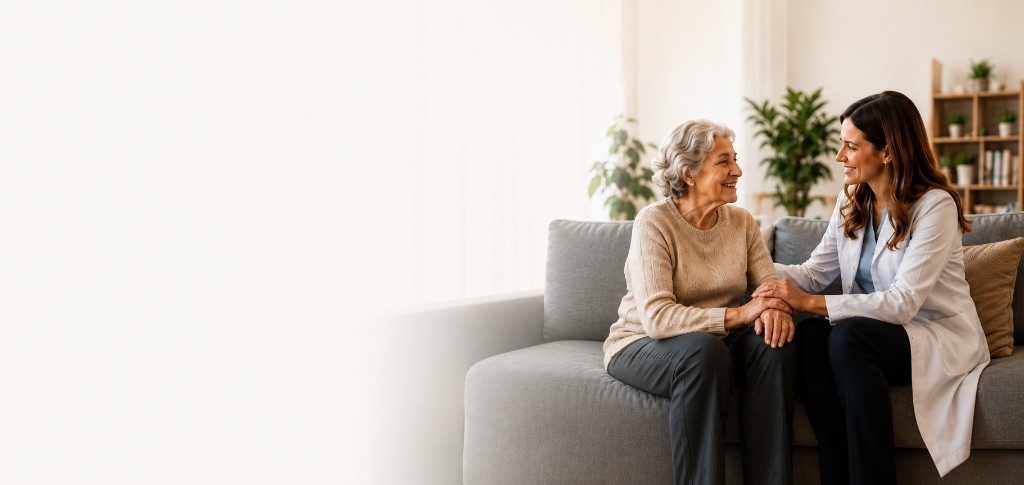
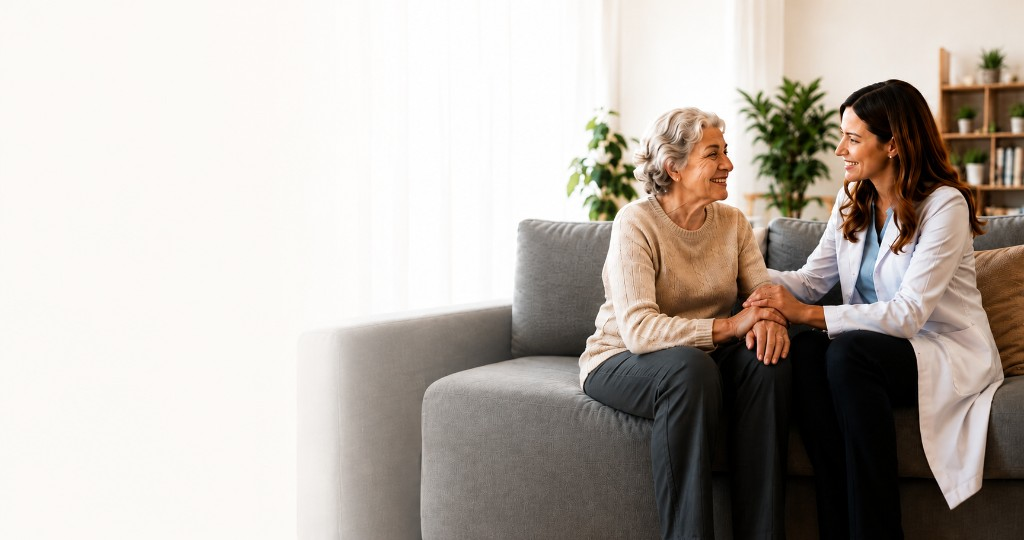
Melhora visual do hero e atualiza imagens

diff --git a/components/sections/hero-section.tsx b/components/sections/hero-section.tsx
@@ -4,6 +4,7 @@ import Image from "next/image";
 import Link from "next/link";
 import { CalendarDays } from "lucide-react";
 import { hero } from "@/lib/content";
+import { images } from "@/lib/images";
 import { WhatsAppButton } from "@/components/shared/whatsapp-button";
 import { Button } from "@/components/ui/button";
 import { FadeIn } from "@/components/shared/motion-primitives";
@@ -15,11 +16,12 @@ export function HeroSection() {
       className="relative isolate overflow-hidden"
     >
       <Image
-        src="/images/hero.png"
+        src={images.hero}
         alt=""
         aria-hidden
         fill
         priority
+        quality={92}
         sizes="100vw"
         className="pointer-events-none -z-10 object-cover object-[10%_center] max-md:object-[34%_26%] md:max-lg:object-[12%_center] lg:object-[8%_center]"
       />

diff --git a/components/layout/header.tsx b/components/layout/header.tsx
@@ -31,7 +31,8 @@ export function Header() {
             alt="ProLife Centro de Saúde da Mente"
             fill
             priority
-            sizes="(max-width: 768px) 108px, 118px"
+            quality={100}
+            sizes="(max-width: 768px) 216px, 236px"
             className="object-contain object-left"
           />
         </Link>
@@ -41,7 +42,7 @@ export function Header() {
             <Link
               key={item.href}
               href={item.href}
-              className="text-body-sm font-semibold text-navy-900/70 transition-colors hover:text-gold-500"
+              className="text-base font-semibold text-navy-900/70 transition-colors hover:text-gold-500"
             >
               {item.label}
             </Link>

diff --git a/components/layout/footer.tsx b/components/layout/footer.tsx
@@ -41,7 +41,8 @@ export function Footer() {
                 src="/images/logo-prolife-footer.png"
                 alt="ProLife Desenvolvimento Humano"
                 fill
-                sizes="(max-width: 768px) 140px, 152px"
+                quality={100}
+                sizes="(max-width: 768px) 280px, 304px"
                 className="object-contain object-left"
               />
             </Link>

diff --git a/next.config.ts b/next.config.ts
@@ -61,6 +61,8 @@ logDebug("H3", "static chunks inventory", {
 const nextConfig: NextConfig = {
   images: {
     formats: ["image/avif", "image/webp"],
+    deviceSizes: [640, 750, 828, 1080, 1200, 1920, 2048, 2560],
+    imageSizes: [16, 32, 48, 64, 96, 128, 256, 384],
   },
 };
 

diff --git a/lib/images.ts b/lib/images.ts
@@ -1,5 +1,5 @@
 export const images = {
-  hero: "/images/hero.jpg",
+  hero: "/images/hero.png",
   idosoCasal: "/images/idoso-casal.jpg",
   psicoterapia: "/images/psicoterapia.png",
   massoterapia: "/images/massoterapia.png",
